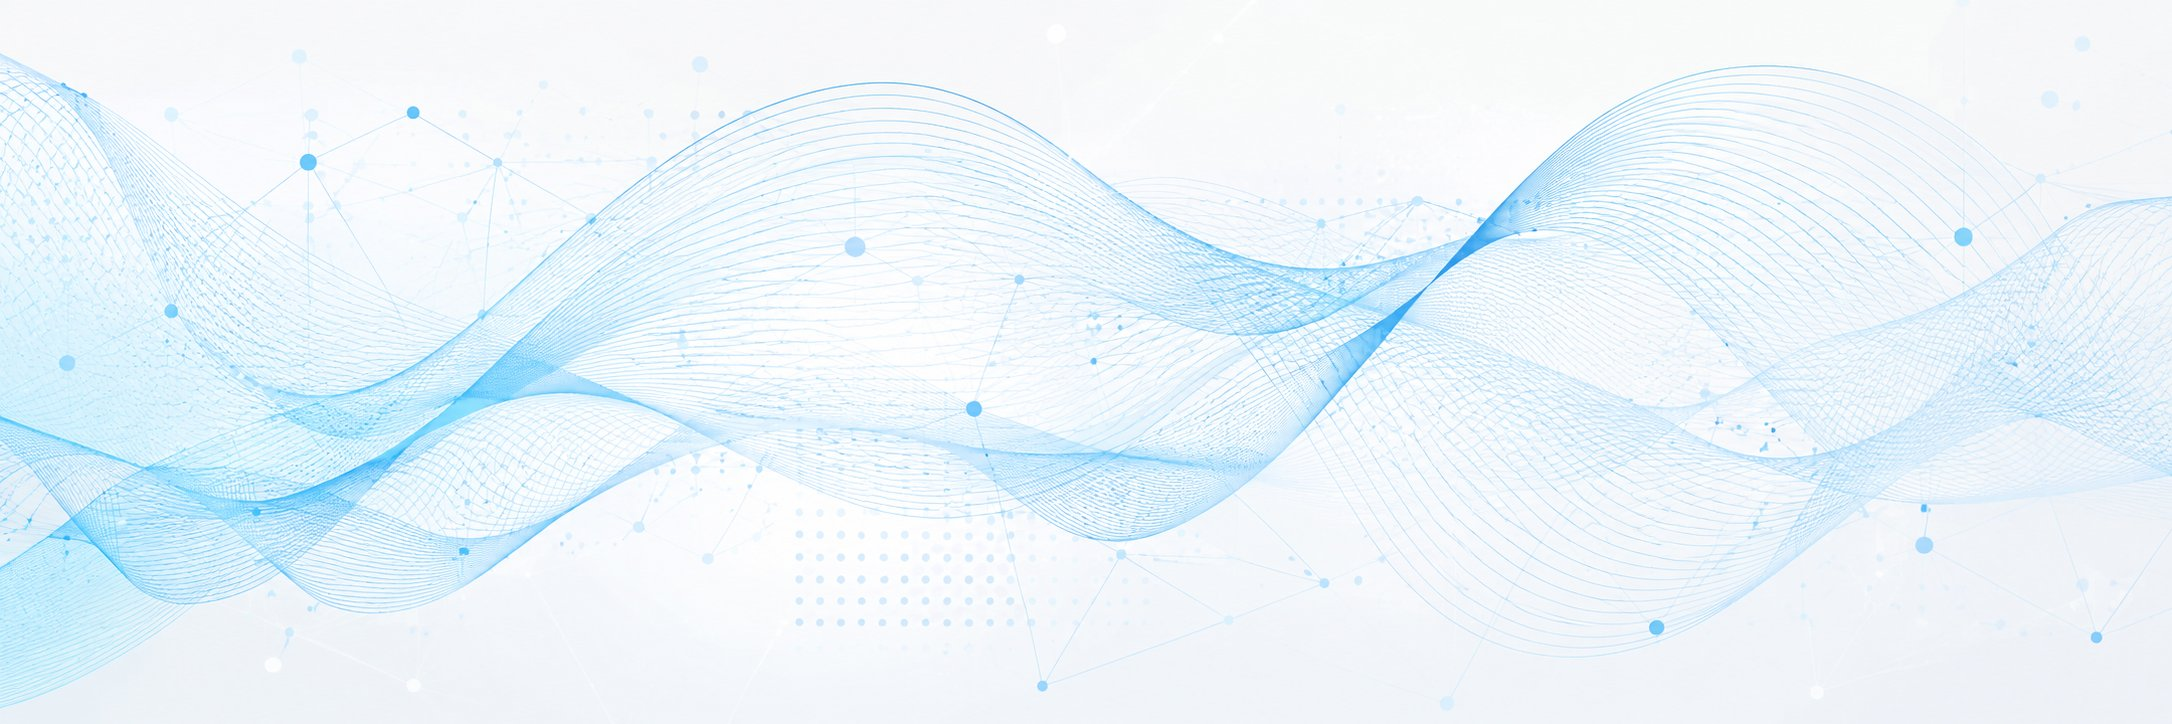
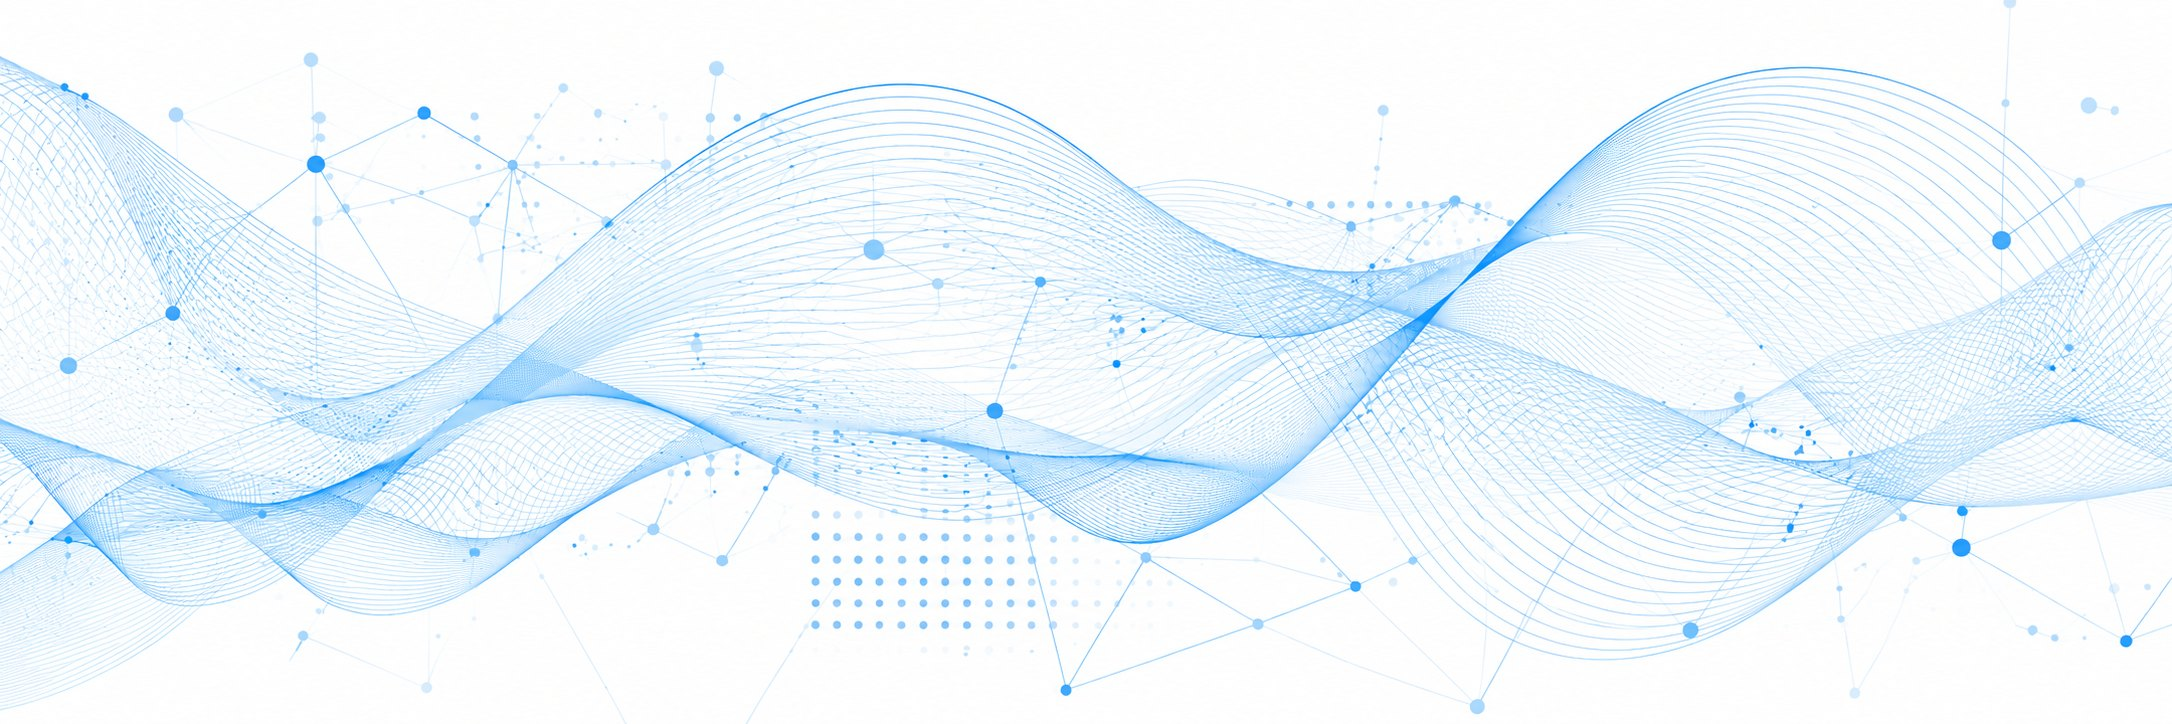
로봇관 실적현황: 배경 이미지 교체 + 상단 밴드(63%)로 숫자 중앙까지만 내려오게 처리

diff --git a/styles.css b/styles.css
@@ -248,7 +248,13 @@ body.home .stat { flex-direction: row; gap: 10px; }
 .stat__body { display: flex; flex-direction: column; align-items: center; }
 
 /* 로봇관 실적현황 — 파동 배경 위 큰 숫자 (예시 스타일) */
-#results.robstats { background: #f3f8ff url("assets/robot-stats-bg.jpg") center center / cover no-repeat; }
+#results.robstats { position: relative; background: #fff; overflow: hidden; }
+#results.robstats::before {
+  content: ""; position: absolute; left: 0; right: 0; top: 0; height: 63%;
+  background: url("assets/robot-stats-bg.jpg") center top / cover no-repeat;
+  z-index: 0; pointer-events: none;
+}
+#results.robstats > .wrap { position: relative; z-index: 1; }
 #results.robstats .stats { gap: 8px; }
 #results.robstats .stat { background: transparent; border: none; box-shadow: none; padding: 18px 12px; }
 #results.robstats .num { font-size: clamp(40px, 6vw, 64px); color: #16233d; min-height: auto; }